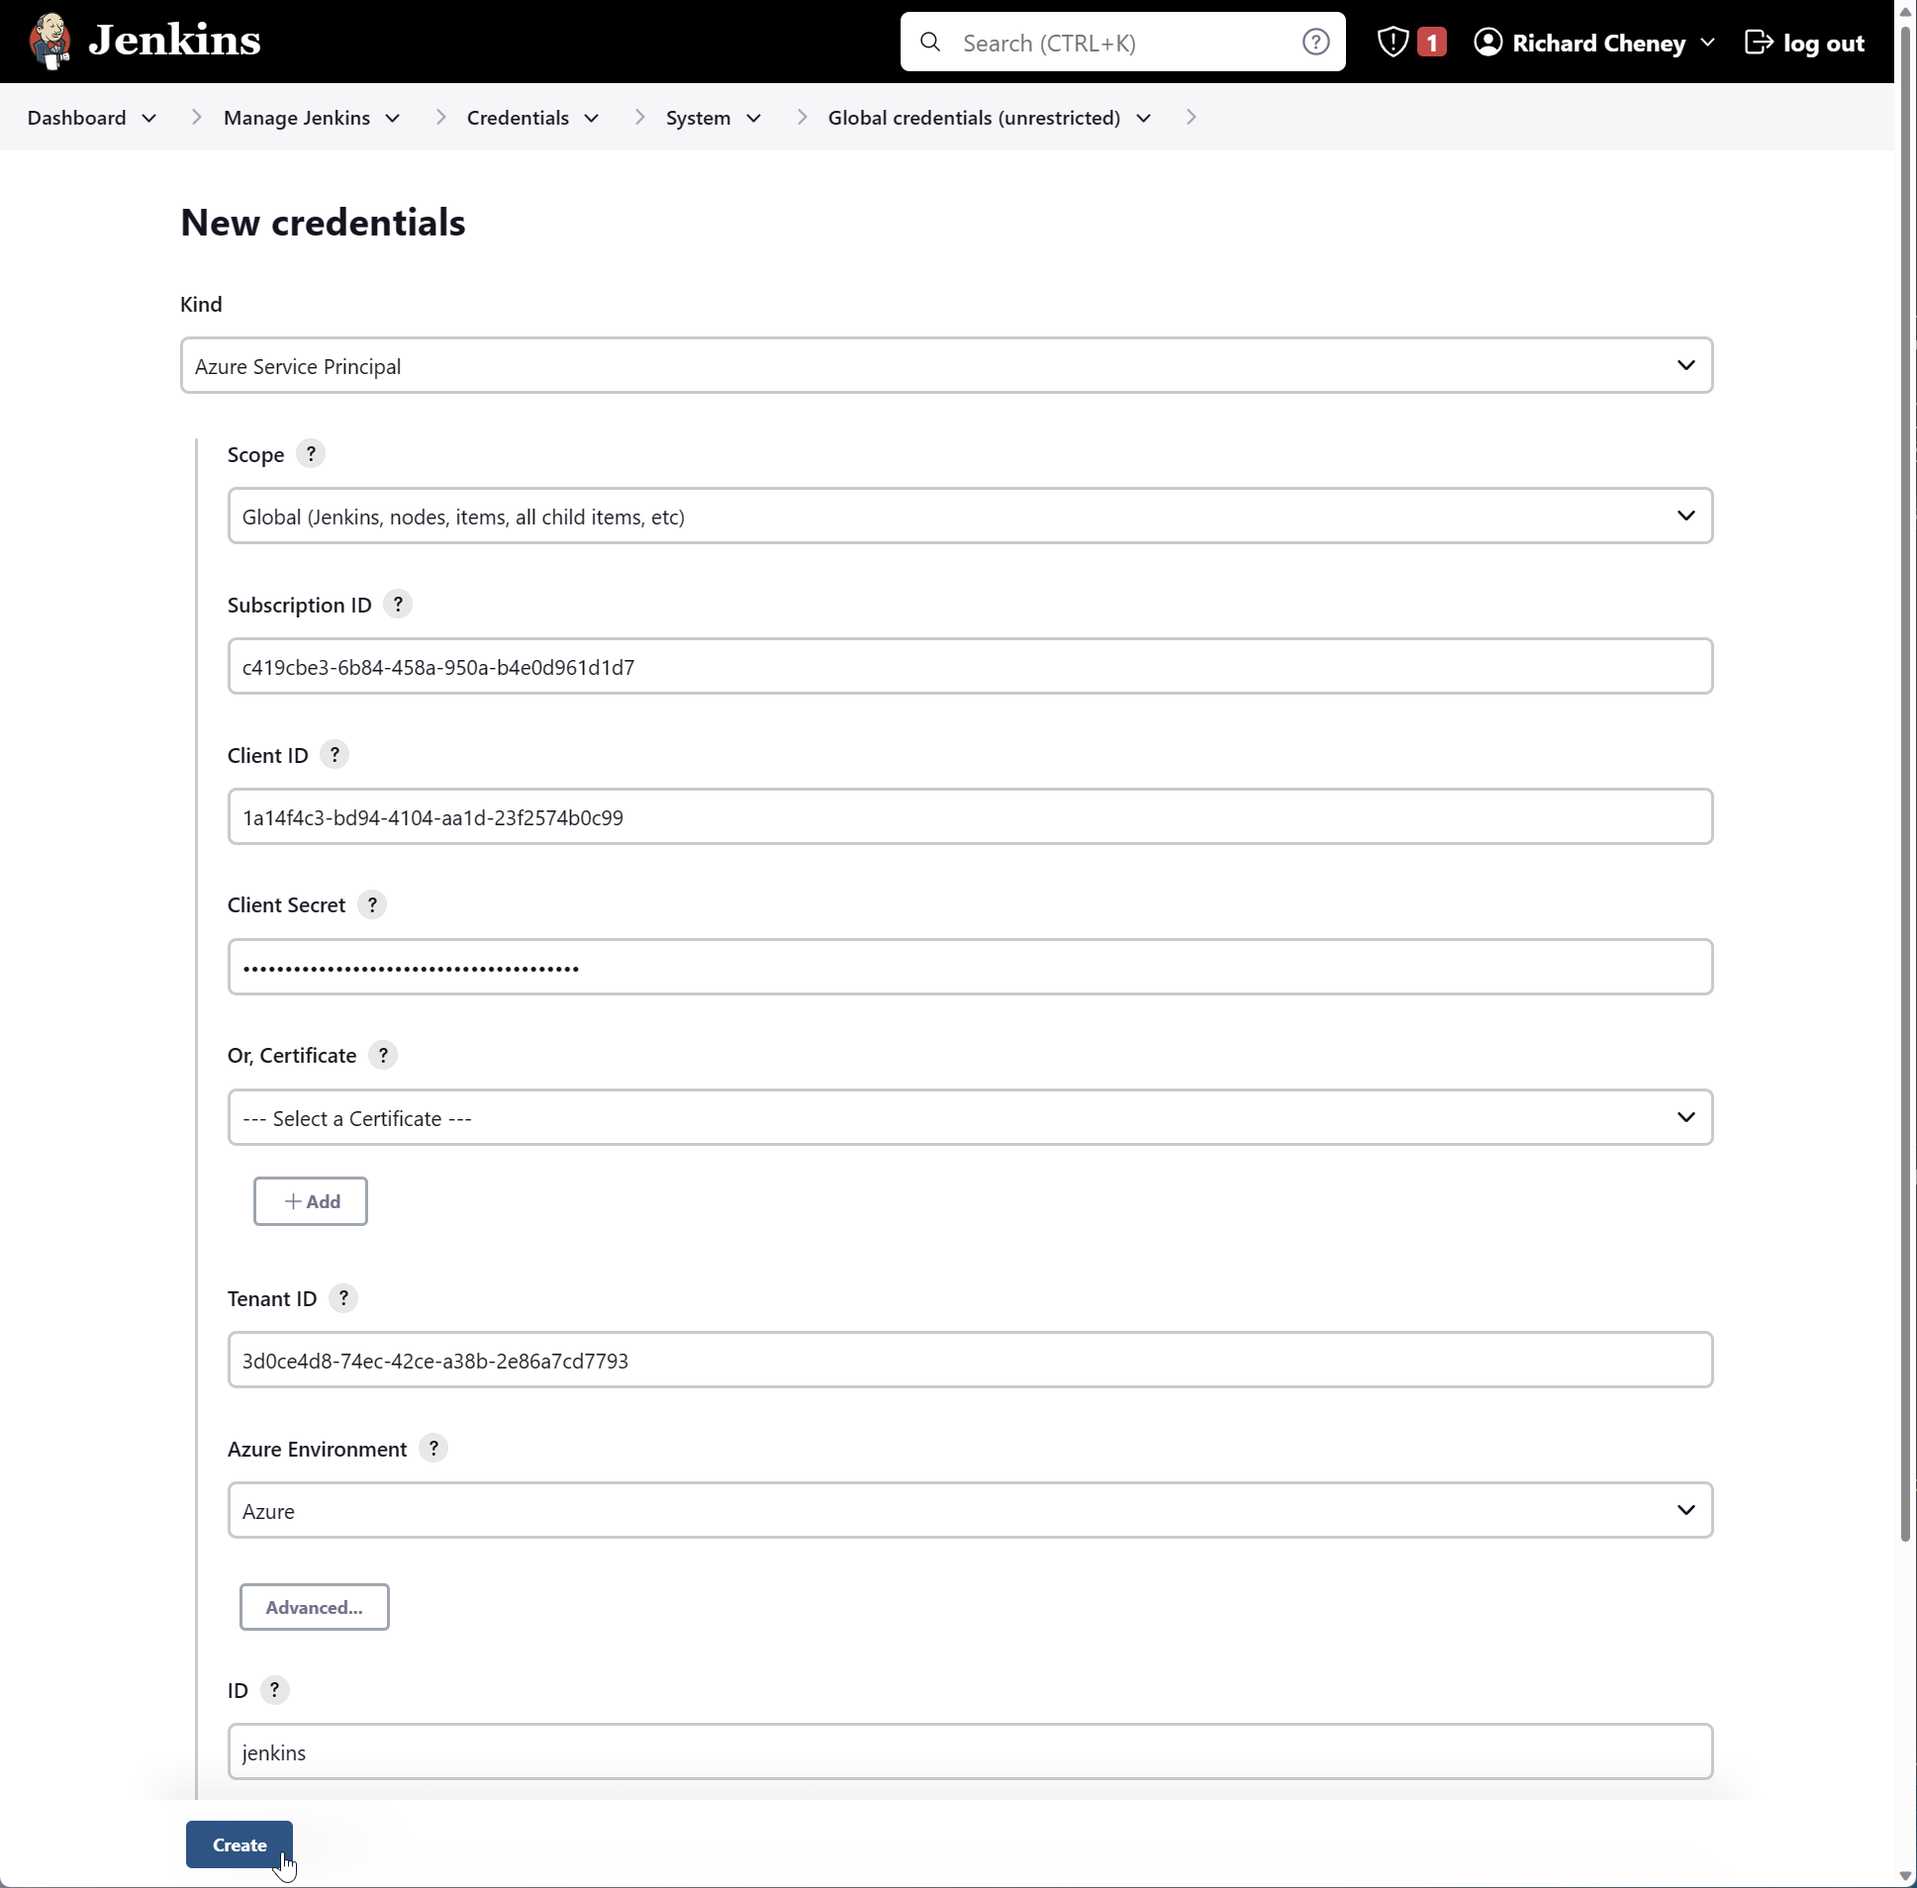
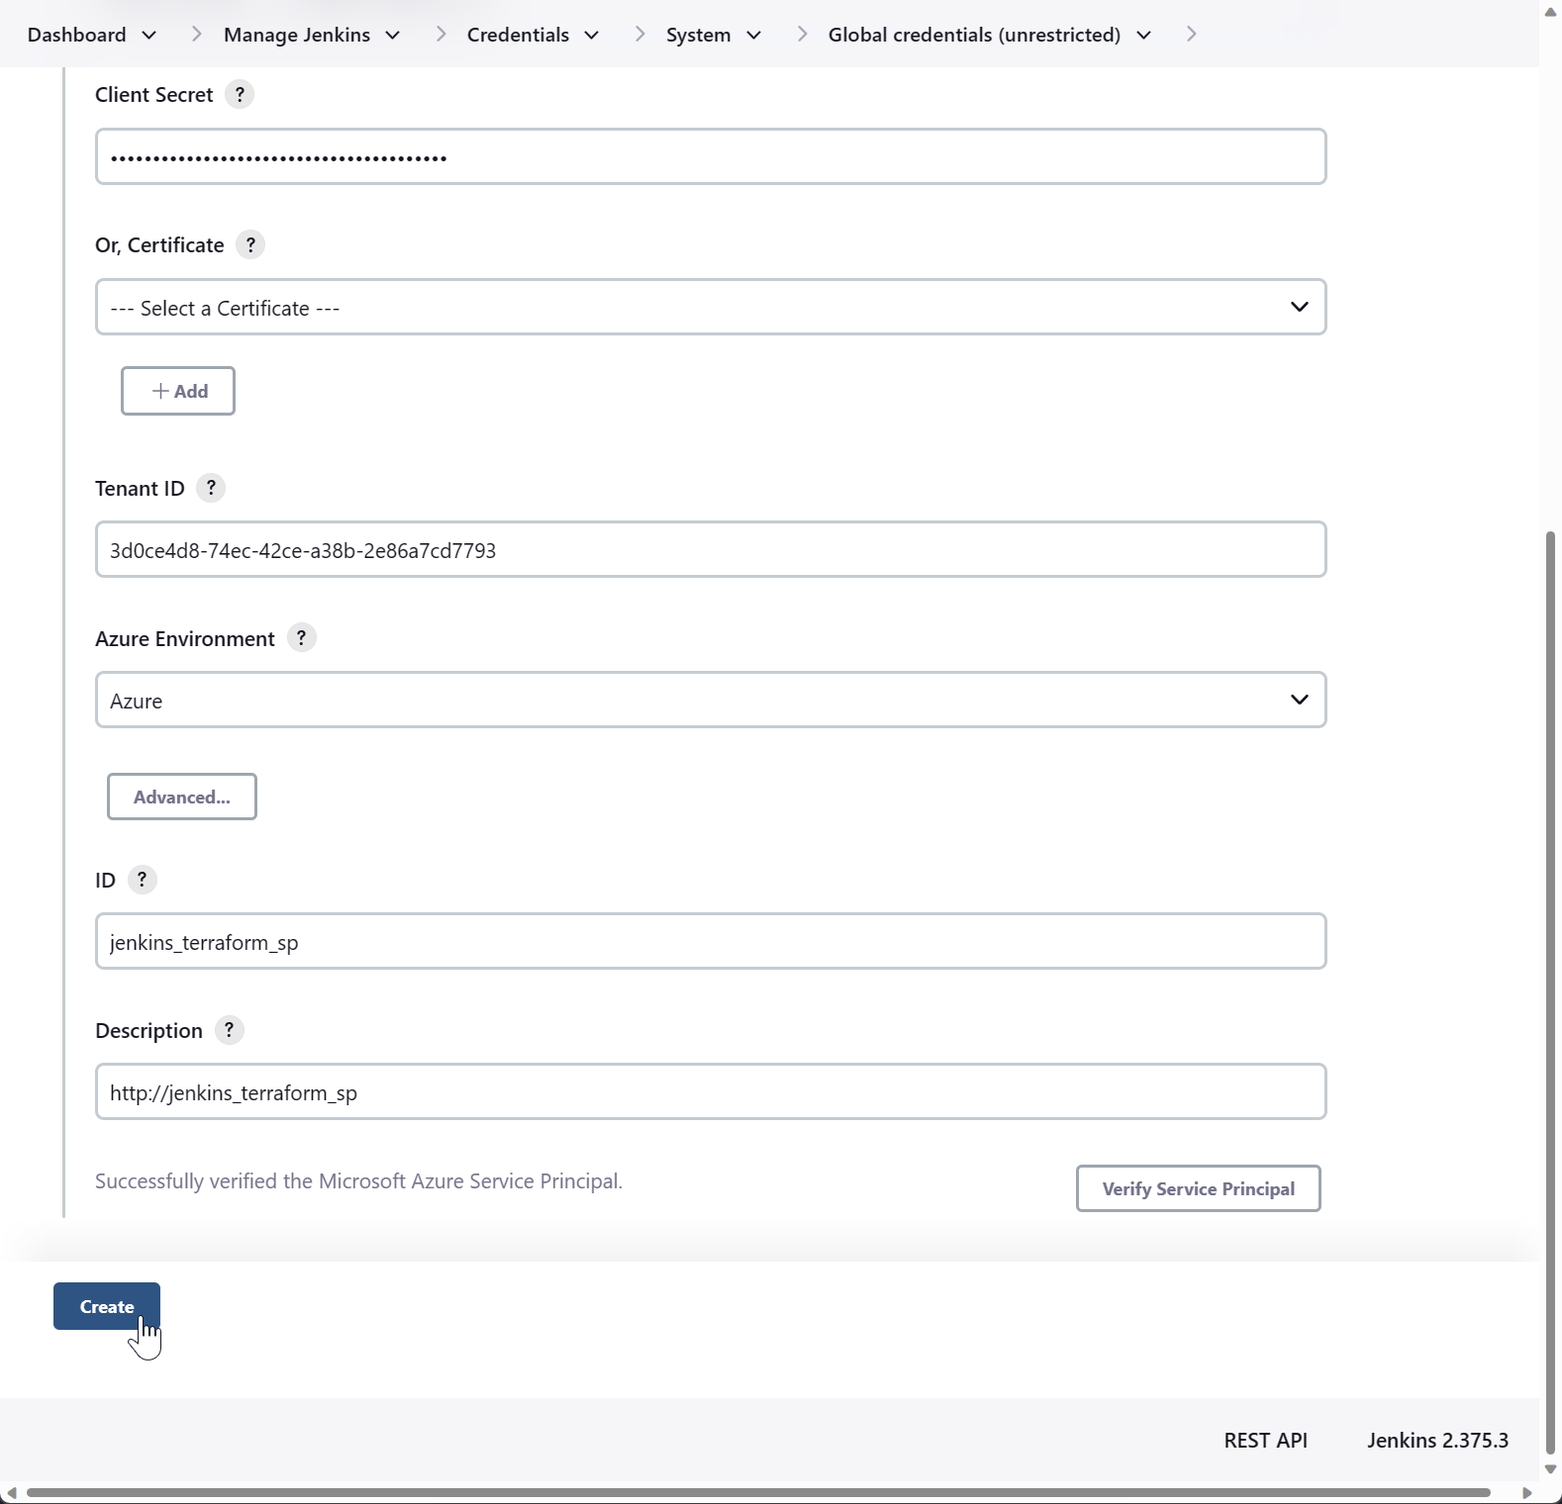
Duplicated the appId - jenkins MSI

diff --git a/README.md b/README.md
@@ -156,9 +156,30 @@ Jenkins can install tools (binaries, etc) on the fly with automatic installers. 
     1. Name = **terraform**
     1. Install directory = **/usr/bin**
     1. Uncheck *Install automatically*
+
+        ![Add Terraform as a Jenkins tool](images/terraform.png)
 1. Save
 
 ## Credential
+
+1. Create a service principal
+
+    ```bash
+    az ad sp create-for-rbac --name http://jenkins_terraform_sp --output jsonc
+    ```
+
+1. Get the service principal's object ID
+
+    ```bash
+    objectId=$(az ad sp list --filter "displayname eq 'http://jenkins_terraform_sp'" --query [0].id -otsv)
+    ```
+
+1. Create Owner RBAC role assignment on the subscription
+
+    ```bash
+    subscriptionId=/subscriptions/$(az account show --query id -otsv)
+    az role assignment create --assignee $objectId --role "Contributor" --scope $subscriptionId
+    ```
 
 1. Display the subscription ID
 
@@ -166,10 +187,12 @@ Jenkins can install tools (binaries, etc) on the fly with automatic installers. 
     az account show --type id --output tsv
     ```
 
-1. Create a service principal
+1. Recreate the service principal
+
+    This will patch it, resetting the password.
 
     ```bash
-    az ad sp create-for-rbac --name jenkins --output jsonc
+    az ad sp create-for-rbac --name http://jenkins_terraform_sp --output jsonc
     ```
 
 1. Manage Jenkins | Manage Credentials
@@ -181,22 +204,13 @@ Jenkins can install tools (binaries, etc) on the fly with automatic installers. 
     * **Client ID** (appId)
     * **Client Secret** (password)
     * **Tenant ID**
-    * Id = **Jenkins**
+    * Id = **jenkins_terraform_sp**
+    * Description = **ht<span>tp://</span>jenkins_terraform_sp**
+1. *Verify Service Principal*
 
-        ![Adding a Service Principal in Jenkins](images/service_principal.png)
+    ![Adding a Service Principal in Jenkins](images/service_principal.png)
 
-1. Get the service principal's object ID
-
-    ```bash
-    objectId=$(az ad sp list --filter "displayname eq 'jenkins'" --query [0].id -otsv)
-    ```
-
-1. Create Owner RBAC role assignment on the subscription
-
-    ```bash
-    subscriptionId=/subscriptions/$(az account show --query id -otsv)
-    az role assignment create --assignee $objectId --role "Contributor" --scope $subscriptionId
-    ```
+1. *Create*
 
 ## Remote state
 
@@ -207,7 +221,6 @@ Jenkins can install tools (binaries, etc) on the fly with automatic installers. 
     sa=terraform$(md5sum <<< $rgId | cut -c1-12)
     az storage account create --name $sa --sku Standard_LRS --allow-blob-public-access false
     az storage container create --name "tfstate" --account-name $sa --auth-mode login
-
     ```
 
     Uses md5sum to generate a predictable hash from the resource group's resource ID.
